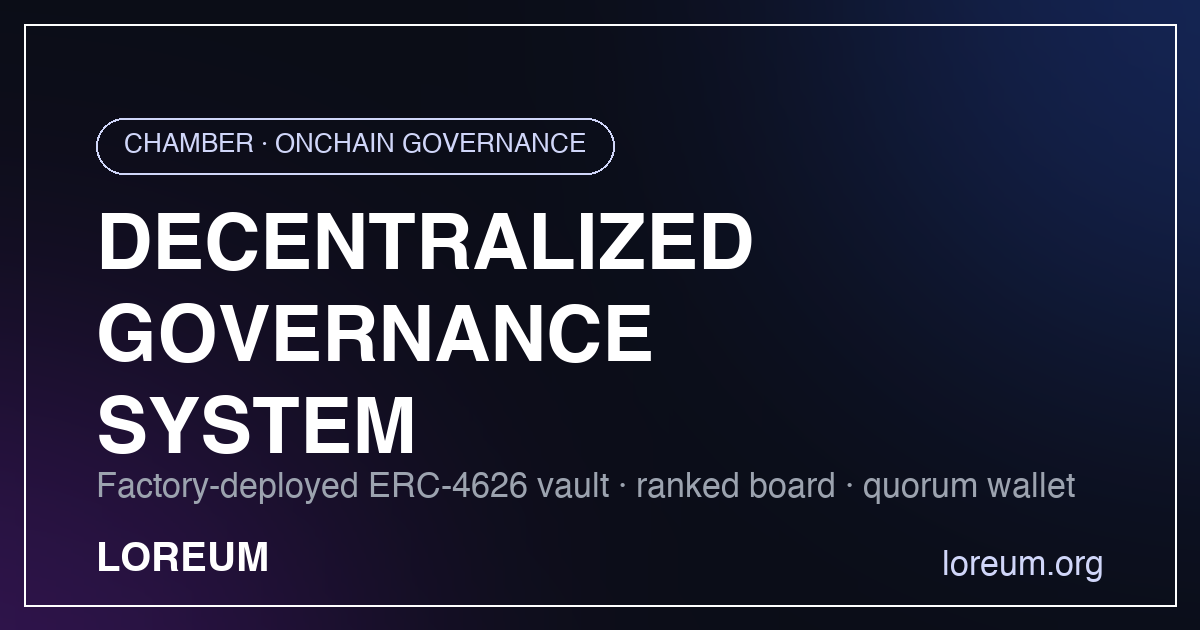
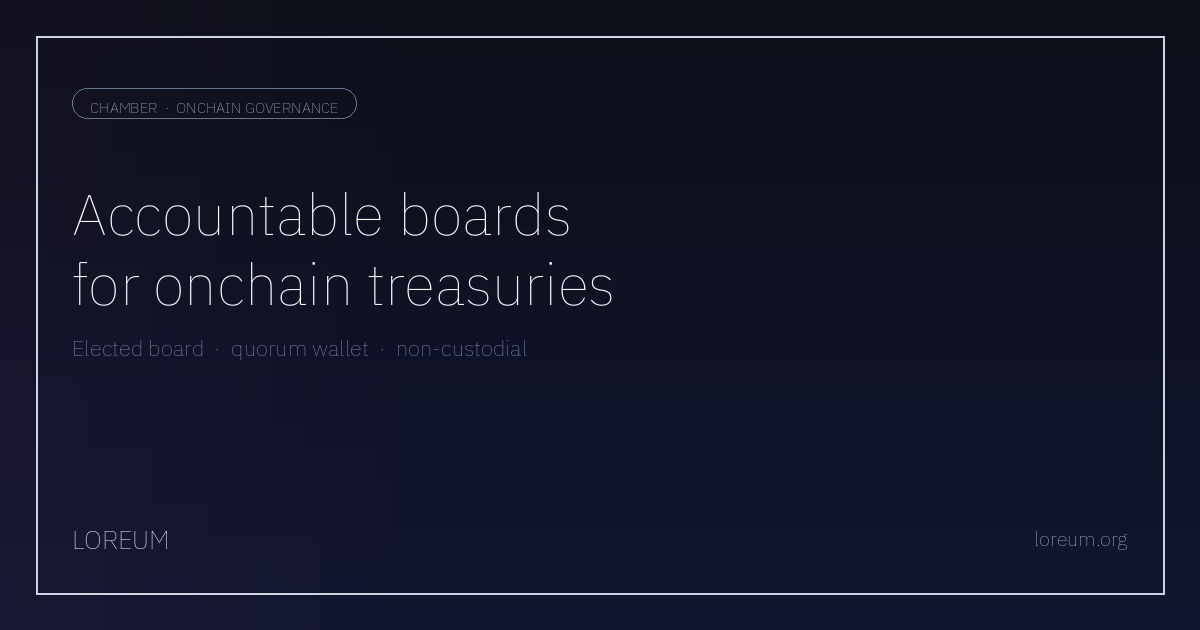
feat(analytics): Umami CTA events + allow tracker in app CSP
Track main conversion clicks with stable data-umami-event names
(cta-launch-app, cta-create-chamber). Allow the existing Umami
script host in the app Content-Security-Policy so the tracker can
load. Refresh landing og.png to drop the old DECENTRALIZED
GOVERNANCE SYSTEM tagline.

diff --git a/app/index.html b/app/index.html
@@ -26,7 +26,7 @@
     <meta name="twitter:description" content="Chamber app for the Loreum protocol. Deploy and manage Chambers: onchain governance and treasury contracts where an elected board of directors approves transactions." />
     <meta name="twitter:image" content="https://www.loreum.org/og.png" />
     <!-- Content Security Policy
-         script-src: 'self' only — no eval, no inline scripts outside Vite dev HMR
+         script-src: 'self' + Umami host — no eval, no inline scripts outside Vite dev HMR
          style-src: 'self' + 'unsafe-inline' required for CSS-in-JS / Tailwind injected styles
       connect-src arbitrary HTTPS/HTTP backends for NFT JSON + RPC + WalletConnect relays
          img-src: wallet icons, NFT artwork (https:/http: for arbitrary gateways)
@@ -34,13 +34,14 @@
     -->
     <meta http-equiv="Content-Security-Policy" content="
       default-src 'self';
-      script-src 'self';
+      script-src 'self' https://umami-production-1c34.up.railway.app;
       style-src 'self' 'unsafe-inline' https://fonts.googleapis.com;
       font-src 'self' https://fonts.gstatic.com;
       img-src 'self' data: https: http:
         https://cdn.loreum.org https://ipfs.loreum.org
         https://*.walletconnect.com https://*.walletconnect.org;
       connect-src 'self'
+        https://umami-production-1c34.up.railway.app
         https: http:
         wss://*.walletconnect.com wss://*.walletconnect.org https://*.walletconnect.com https://*.walletconnect.org
         wss://*.alchemy.com wss://*.g.alchemy.com

diff --git a/app/src/components/Layout.tsx b/app/src/components/Layout.tsx
@@ -11,10 +11,10 @@ import { erc721Abi, erc20Abi } from '@/contracts'
 import { formatLocalTestMintToast, formatWalletSendError } from '@/lib/utils'
 import toast from 'react-hot-toast'
 
-const navItems = [
+const navItems: { path: string; label: string; umamiEvent?: string }[] = [
   { path: '/', label: 'My Chambers' },
   { path: '/operators', label: 'Operators' },
-  { path: '/deploy', label: 'Deploy Chamber' },
+  { path: '/deploy', label: 'Deploy Chamber', umamiEvent: 'cta-create-chamber' },
   { path: '/compliance', label: 'Compliance' },
   { path: '/docs', label: 'Docs' },
 ]
@@ -166,6 +166,7 @@ export default function Layout() {
                     key={item.path}
                     to={item.path}
                     aria-current={isActive ? 'page' : undefined}
+                    {...(item.umamiEvent ? { 'data-umami-event': item.umamiEvent } : {})}
                     className={`px-3 py-1.5 rounded-md text-[13px] transition-colors ${
                       isActive
                         ? 'text-slate-100 bg-surface-2'
@@ -203,6 +204,7 @@ export default function Layout() {
                   key={item.path}
                   to={item.path}
                   onClick={() => setMobileMenuOpen(false)}
+                  {...(item.umamiEvent ? { 'data-umami-event': item.umamiEvent } : {})}
                   className={`block px-3 py-2.5 rounded-md text-sm ${
                     isActive ? 'text-slate-100 bg-surface-2' : 'text-slate-400 hover:text-slate-100 hover:bg-surface-2'
                   }`}

diff --git a/landing/src/App.tsx b/landing/src/App.tsx
@@ -332,7 +332,7 @@ function App() {
             transition={{ duration: 0.6, delay: 0.25 }}
             className="mt-8 flex flex-col sm:flex-row gap-3"
           >
-            <a href={chamberAppUrl} className="btn btn-primary">
+            <a href={chamberAppUrl} className="btn btn-primary" data-umami-event="cta-launch-app">
               Open the app
               <ArrowRight className="w-4 h-4" />
             </a>
@@ -581,7 +581,7 @@ function App() {
               contract does the rest. Try it on Sepolia first.
             </p>
             <div className="mt-8 flex flex-col sm:flex-row gap-3 justify-center">
-              <a href={chamberAppUrl} className="btn btn-primary">
+              <a href={chamberAppUrl} className="btn btn-primary" data-umami-event="cta-launch-app">
                 Open the app
                 <ArrowRight className="w-4 h-4" />
               </a>

diff --git a/app/src/pages/DeployChamber.tsx b/app/src/pages/DeployChamber.tsx
@@ -577,6 +577,7 @@ export default function DeployChamber() {
                     type="submit"
                     disabled={!canProceedToReview}
                     className="btn btn-primary w-full py-3.5 text-base"
+                    data-umami-event="cta-create-chamber"
                   >
                     <span>Review & Deploy</span>
                     <FiArrowRight className="w-5 h-5" />
@@ -687,6 +688,7 @@ export default function DeployChamber() {
                       onClick={handleConfirmDeploy}
                       disabled={!canCreate || isPending || isConfirming || step === 'deploying'}
                       className="btn btn-primary flex-1 py-3.5"
+                      data-umami-event="cta-create-chamber"
                     >
                       {isPending || isConfirming ? (
                         <>

diff --git a/app/src/pages/Dashboard.tsx b/app/src/pages/Dashboard.tsx
@@ -146,7 +146,7 @@ export default function Dashboard() {
         title="My chambers"
         description="Chambers you created, direct, or hold shares in."
         actions={
-          <Link to="/deploy" className="btn btn-primary">
+          <Link to="/deploy" className="btn btn-primary" data-umami-event="cta-create-chamber">
             Deploy chamber
           </Link>
         }
@@ -293,7 +293,7 @@ function EmptyChambers({ disconnected = false }: { disconnected?: boolean }) {
           : 'Deploy a chamber, or open one by address if it is not in this wallet’s list yet.'
       }
       action={
-        <Link to="/deploy" className="btn btn-primary">
+        <Link to="/deploy" className="btn btn-primary" data-umami-event="cta-create-chamber">
           Deploy a chamber
         </Link>
       }

diff --git a/landing/src/Footer.tsx b/landing/src/Footer.tsx
@@ -26,7 +26,7 @@ function Footer() {
         <div>
           <h4 className="text-[11px] font-semibold uppercase tracking-[0.14em] text-slate-500 mb-4">Product</h4>
           <ul className="space-y-2.5 text-sm text-slate-400">
-            <li><a href={chamberAppUrl} className={itemClass}>Open the app</a></li>
+            <li><a href={chamberAppUrl} className={itemClass} data-umami-event="cta-launch-app">Open the app</a></li>
             <li><a href={`${chamberAppUrl}/docs`} target="_blank" rel="noopener noreferrer" className={itemClass}>Documentation</a></li>
             <li><Link to="/whitepaper" className={itemClass}>Whitepaper</Link></li>
             <li><Link to="/blog" className={itemClass}>Blog</Link></li>

diff --git a/landing/src/Nav.tsx b/landing/src/Nav.tsx
@@ -59,7 +59,7 @@ export default function Nav({ active = 'none' }: { active?: NavKey }) {
         </nav>
 
         <div className="flex items-center gap-3">
-          <a href={chamberAppUrl} className="btn btn-primary !py-2 !px-4 text-[13px]">
+          <a href={chamberAppUrl} className="btn btn-primary !py-2 !px-4 text-[13px]" data-umami-event="cta-launch-app">
             Open the app
           </a>
           <button
